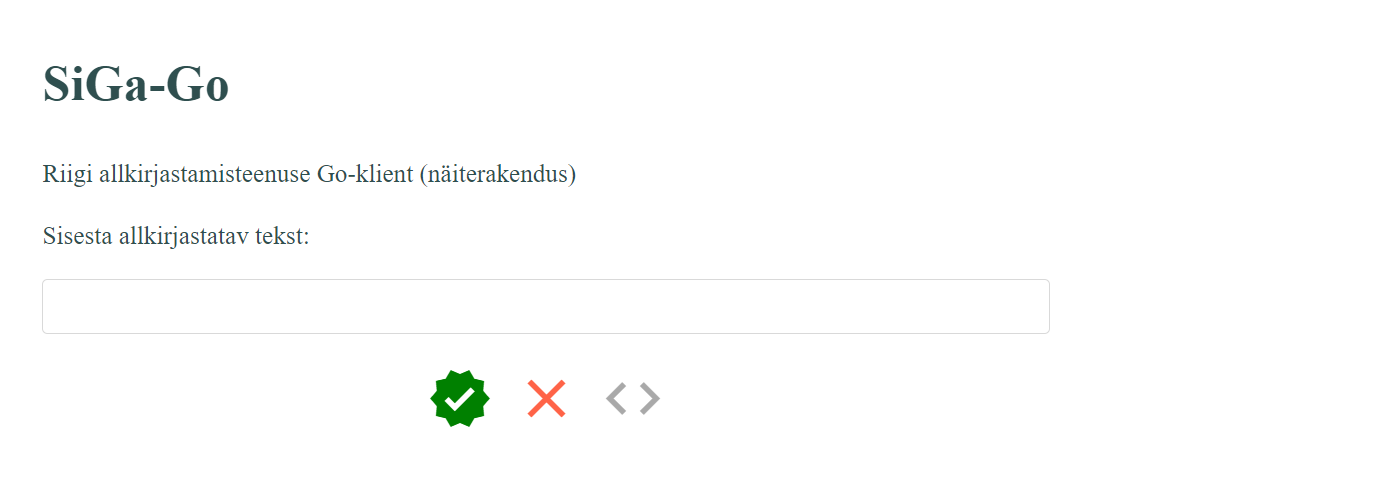
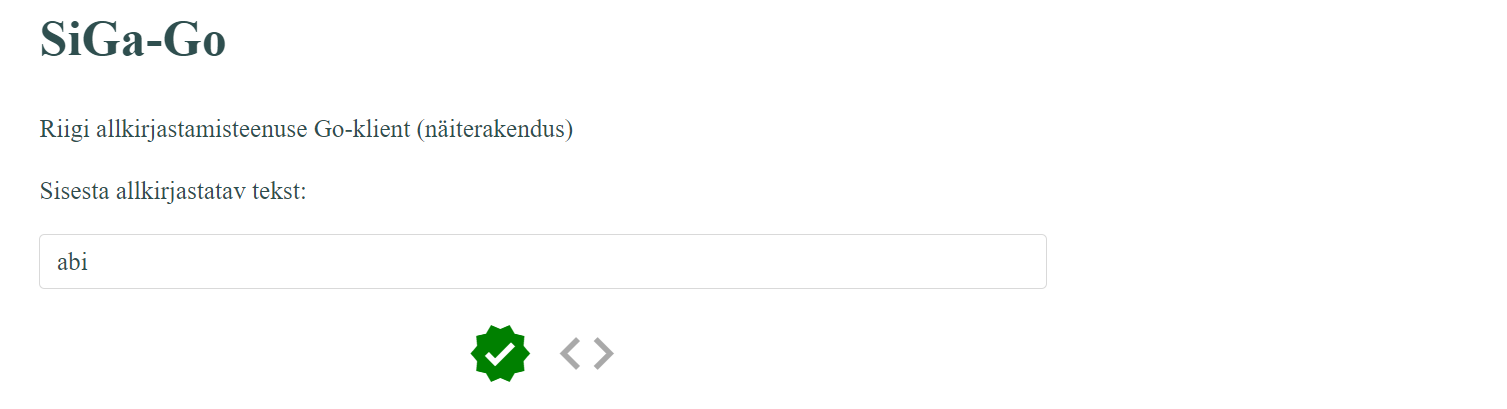
ID-kaardiga: konteiner loodud

diff --git a/static/siga-go.js b/static/siga-go.js
@@ -4,7 +4,6 @@
 function init() {
 
   seaTeabepaanideKasitlejad();
-  seaRedaktoriKasitlejad();
   seaTekstinupukasitlejad();
 
 }
@@ -29,11 +28,22 @@ function seaTeabepaanideKasitlejad() {
 // Sea sisestatava teksti käsitlejad ('Uus', 'Vaheta pooled', 'Salvesta').
 function seaTekstinupukasitlejad() {
 
-  $('#Uusnupp').click(() => {
-    $('#Tekst').focus();
-  });
-
   $('#Allkirjastanupp').click(() => {
+    fetch('https://localhost:8080/p1', {
+      method: 'POST',
+      headers: {
+        'content-type': 'application/json'
+      },
+      body: JSON.stringify({
+        tekst: document.getElementById("Tekstisisestusala").innerText
+      })
+    })
+      .then(response => {
+        console.log(response)
+      })
+      .catch(err => {
+        console.log(err)
+      })
   });
 }
 
@@ -42,3 +52,11 @@ function kuvaTeade(t) {
   $('#Teatetekst').text(t);
   $('#Teatepaan').removeClass('peidetud');
 }
+
+// Märkmed
+
+// Using Fetch API
+// https://developer.mozilla.org/en-US/docs/Web/API/Fetch_API/Using_Fetch
+
+// Fetch (vigane näide!)
+// https://flaviocopes.com/how-to-post-api-javascript/

diff --git a/static/index.html b/static/index.html
@@ -37,18 +37,14 @@
 
     <p>Sisesta allkirjastatav tekst:</p>
     <!-- Tekstisisestusala -->
-    <div id='Tekst' contenteditable='true' spellcheck='false'>
+    <div id='Tekstisisestusala' contenteditable='true' spellcheck='false'>
     </div>
 
     <!-- Nuppude ala -->
     <p id='Tekstitootlus'>
-      <span id='Allkirjastanupp' class='nupp disabled' title='Allkirjasta'>
+      <span id='Allkirjastanupp' class='nupp' title='Allkirjasta'>
         <i class="ikoon material-icons green">verified</i>
       </span>
-
-      <span id='Uusnupp' class='nupp disabled' title='Alusta uut'>
-        <i class="ikoon material-icons tomato">clear</i>
-      </span>  
 
       <span id='Koodnupp' class='nupp' title='Lähtekood'>
         <i class="ikoon material-icons">code</i>

diff --git a/static/siga-go.css b/static/siga-go.css
@@ -18,7 +18,7 @@ color: Gray;
 }
 
 /* Tekstisisestusala */
-#Tekst { 
+#Tekstisisestusala { 
 display: block;
 height: auto; /* 2.5rem; */
 padding: 0.5rem 0.75rem;

diff --git a/apphelpers.go b/apphelpers.go
@@ -1,16 +1,16 @@
 package main
 
 import (
-	// "context"
+	"context"
 	"encoding/json"
 	"fmt"
 	"io/ioutil"
 	"log"
 	"net/http"
 	"os"
-	// "time"
+	"strings"
 
-	// "github.com/e-gov/SiGa-Go/siga"
+	"github.com/e-gov/SiGa-Go/siga"
 	"github.com/e-gov/SiGa-Go/https"
 	// "github.com/e-gov/SiGa-Go/abi"
 )
@@ -59,13 +59,67 @@ func CreateServer() {
 
 	// Moodusta server
 	http.Handle("/", http.FileServer(http.Dir("./static")))
+	http.HandleFunc("/p1", p1Handler)
 	http.HandleFunc("/abi", handler)
 	log.Fatal(http.ListenAndServeTLS(
 		":8080",
 		"certs/localhostchain.cert",
 		"certs/localhost.key",
 		nil))
+}
 
+// p1Handler võtab vastu sirvikust saadetud allkirjastatava teksti ja 
+// moodustab (SiGa poole pöördumisega) konteineri. 
+func p1Handler(w http.ResponseWriter, req *http.Request) {
+
+	// Vastuvõetava päringu keha struktuur.
+	type req_struct struct {
+		Tekst string
+	}
+
+	// Loe päringu keha sisse.
+	body, err := ioutil.ReadAll(req.Body)
+	if err != nil {
+		panic(err)
+	}
+	log.Println("P1 päringu keha: ", string(body))
+
+	// Parsi JSON.
+	var t req_struct
+	err = json.Unmarshal(body, &t)
+	if err != nil {
+		panic(err)
+	}
+	log.Println(t.Tekst)
+
+	// Tühi tekst?
+	if len(t.Tekst) == 0 {
+		fmt.Println("Tühja teksti ei saa allkirjastada")
+		return
+	}
+
+	// Moodusta DataFile (allkirjakonteinerisse pandav fail koos metaandmetega)
+	datafile, err := siga.NewDataFile("fail.txt", strings.NewReader(t.Tekst))
+	if err != nil {
+		log.Println("Allkirjakonteinerisse pandava fail moodustamine ebaõnnestus")
+		return
+	}
+
+	// Loo SiGa klient.
+	c := CreateSIGAClient()
+	defer c.Close()
+
+	// Loo seanss.
+	ctx := context.Background()
+	const session = "Example_IDCardSigning"
+
+	// Koosta konteiner, pöördumisega SiGa poole.
+	if err = c.CreateContainer(ctx, session, datafile); err != nil {
+		fmt.Println("Example_IDCardSigning: ", err)
+		os.Exit(1)
+	}
+
+	fmt.Println("Päring töödeldud")
 }
 
 func handler(w http.ResponseWriter, r *http.Request) {
@@ -74,7 +128,7 @@ func handler(w http.ResponseWriter, r *http.Request) {
 
 // CreateSIGAClient moodustab HTTPS kliendi SiGa poole pöördumiseks.
 // Selleks loeb sisse SiGa kliendi konf-i, failist testdata/siga.json.
-/* func CreateSIGAClient() siga.Client {
+func CreateSIGAClient() siga.Client {
 	// Loe seadistusfail.
 	bytes, err := ioutil.ReadFile("testdata/siga.json")
 	if err != nil {
@@ -82,7 +136,7 @@ func handler(w http.ResponseWriter, r *http.Request) {
 		os.Exit(1)
 	}
 
-	var conf siga.conf
+	var conf siga.Conf
 
 	// Parsi seadistusfail.
 	if err := json.Unmarshal(bytes, &conf); err != nil {
@@ -100,9 +154,12 @@ func handler(w http.ResponseWriter, r *http.Request) {
 		os.Exit(1)
 	}
 	return c
-} */
+}
 
 // Märkmed
+
+// POST JSON päringu töötlemine Go-s
+// https://stackoverflow.com/questions/15672556/handling-json-post-request-in-go
 
 // func ListenAndServeTLS
 // https://pkg.go.dev/net/http?tab=doc#ListenAndServeTLS

diff --git a/siga/client.go b/siga/client.go
@@ -7,6 +7,7 @@ import (
 	"encoding/base64"
 	"fmt"
 	"io"
+	"log"
 	"net/http"
 	"net/url"
 
@@ -157,6 +158,8 @@ func (c *client) CreateContainer(
 
 	// Salvesta SiGa-st saadud konteineri ID.
 	s.containerID = resp.ContainerID
+
+	log.Println("CreateContainer: SiGa-s loodud konteiner ID: ", s.containerID)
 
 	if err := c.storage.putStatus(ctx, session, s); err != nil {
 		// Ignore SiGa delete error: best-effort attempt to clean up.

diff --git a/README.md b/README.md
@@ -16,17 +16,17 @@ Järgnevad juhised on rakenduse evitamiseks lokaalses masinas (`localhost`).
 
 3) Valmista rakendusele serdid. Rakendus nõuab serti (täpsemini, serdiahelat) failis `certs/localhostchain.cert` ja privaatvõtit failis `certs/localhost.key`.
 
-4) Mine rakenduse kausta ja käivita rakendus:
+4) Paigalda veebisirvijasse CA sert. Chrome puhul sisesta aadressireale `chrome://settings/privacy`, vajuta jaotises `Privacy and Security` `more`-nupule, vali `Manage Certificates`, `Trusted Root Authorities`, `Import`. 
+
+5) Mine rakenduse kausta ja käivita rakendus:
 
 `go run .`
 
-5) Ava rakendus veebisirvijas:
+6) Ava rakendus veebisirvijas:
 
 `https://localhost:8080`
 
-Aktsepteeri turvaerand (või paigalda rakenduse CA sert veebisirvijasse usaldusankruks).
-
-6) Tutvu rakenduse poolt loodud, allkirjastatud failidega. Vt lähemalt allpool "Näitefailid".
+7) Tutvu rakenduse poolt loodud, allkirjastatud failidega. Vt lähemalt allpool "Näitefailid".
 
 Rakenduse töö detailsem kirjeldus on allpool, jaotises "Detailne kirjeldus".
 
@@ -112,18 +112,17 @@ Voog ei sisalda (praegu) allkirjastamise õnnestumise kinnituse pärimist (`GET`
 
 ## ID-kaardiga allkirjastamine
 
-Seejärel tehakse näitlikult läbi ID-kaardiga allkirjastamine (
-`Example_IDCardSigning()`). Voog on järgmine:
+ID-kaardiga allkirjastamise (`Example_IDCardSigning()`) voog on järgmine:
 
-1  valib allkirjastatava faili (`testdata/example_datafile.txt`)
+1  rakenduse kasutaja sisestab kuvavormil allkirjastatava teksti.
 
-2  esitab allkirjastatava faili kasutajale, koos nupuga "Allkirjasta ID-kaardiga".
+2  kasutaja vajutab nupule "Allkirjasta". Rakenduse sirvikupool saadab teksti POST päringuga rakenduse serveripoolele:
 
-Kasutaja tutvub failiga, vajutab nupule. Rakenduse sirvikupool teeb päringu (P1) rakenduse serveripoolele.
+`POST localhost:8080/p1`
 
-3  arvutab faili räsi.
+3  rakenduse serveripool moodustab sirvikust saadetust tekstist allkirjakonteinerisse pandava fail koos metaandmetega
 
-4  moodustab Riigi allkirjastamisteenuse (SiGa) poole pöördumise HTTPS kliendi (`CreateSIGAClient`)
+4  rakenduse serveripool moodustab Riigi allkirjastamisteenuse (SiGa) poole pöördumise HTTPS kliendi (`CreateSIGAClient`) ja
 
 5  alustab SiGa-ga seanssi (seansi ID `session`, seansiolekukirje `status` seansilaos `storage`)
 
